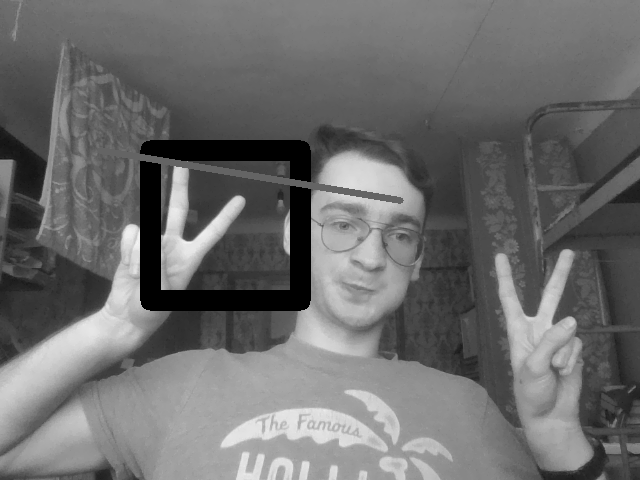
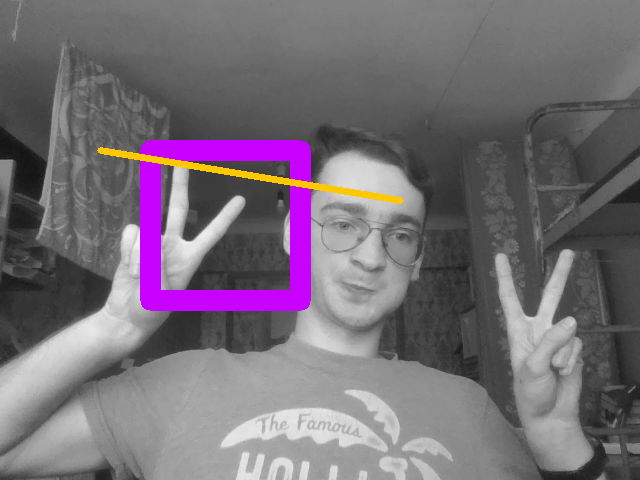
create color reactangle

Changed region(s): [[0.1562, 0.2812, 0.625, 0.6562]]

diff --git a/Lab1/lab2/image_main.py b/Lab1/lab2/image_main.py
@@ -1,17 +1,23 @@
 import cv2
 
 
-# cap = cv2.VideoCapture(0)
-#
-#
-# ret, frame = cap.read()
-# cv2.imwrite('webcam.png', frame)
-image = cv2.imread('webcam1.png')
+cap = cv2.VideoCapture(0)
 
-gray = cv2.cvtColor(image, cv2.COLOR_BGR2GRAY)
-gray = cv2.rectangle(gray, (300, 300), (150, 150), (0, 150, 200), 20)
-gray = cv2.line(gray, (100, 150), (400, 200), (100, 200, 255), 5)
-cv2.imwrite('webcam_result1.png', gray)
+
+ret, frame = cap.read()
+cv2.imwrite('webcam.png', frame)
+image = cv2.imread('webcam.png', 0)
+
+cv2.imwrite('ok.png', image)
+
+image = cv2.imread('ok.png')
+
+gray = cv2.rectangle(image, (300, 300), (150, 150), (255, 0, 200), 20)
+gray = cv2.line(gray, (100, 150), (400, 200), (0, 200, 255), 5)
+
+cv2.imwrite('webcam_result.png', gray)
 
 cv2.imshow('gray', gray)
-# cv2.imshow('frame', frame)
+cv2.imshow('frame', frame)
+
+cv2.destroyAllWindows()

diff --git a/Lab1/lab2/first.py b/Lab1/lab2/first.py
@@ -1,0 +1,24 @@
+import numpy as np
+import cv2
+
+cap = cv2.VideoCapture(0)
+
+while (True):
+    # Capture frame-by-frame
+    ret, frame = cap.read()
+    cv2.imwrite('opencv.png', frame)
+    image = cv2.imread('opencv.png')
+    gray = cv2.cvtColor(image, cv2.COLOR_BGR2GRAY)
+    gray = cv2.rectangle(gray, (100, 100), (200, 200), (0, 255, 255), 10)
+    gray = cv2.line(gray, (60, 20), (400, 200), (0, 100, 255), 5)
+    cv2.imwrite('opencv2.png', gray)
+
+    # Display the resulting frame
+    cv2.imshow('frame', frame)
+    cv2.imshow('gray', gray)
+    if cv2.waitKey(20) & 0xFF == ord('q'):
+        break
+
+# When everything done, release the capture
+cap.release()
+cv2.destroyAllWindows()
